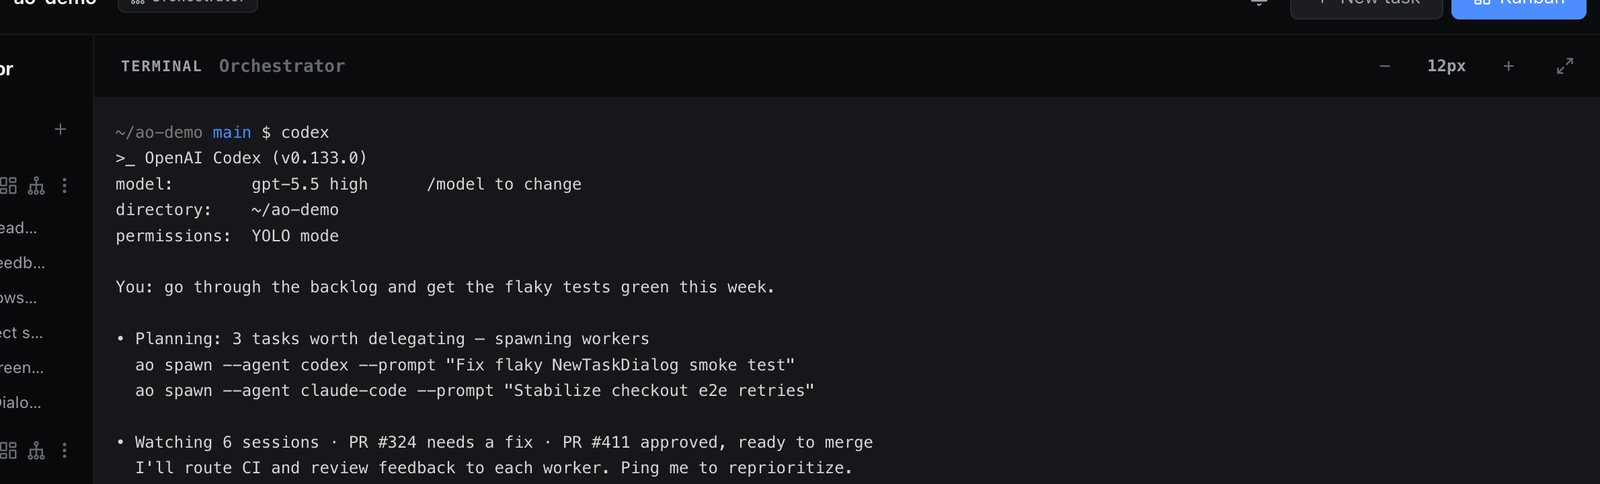
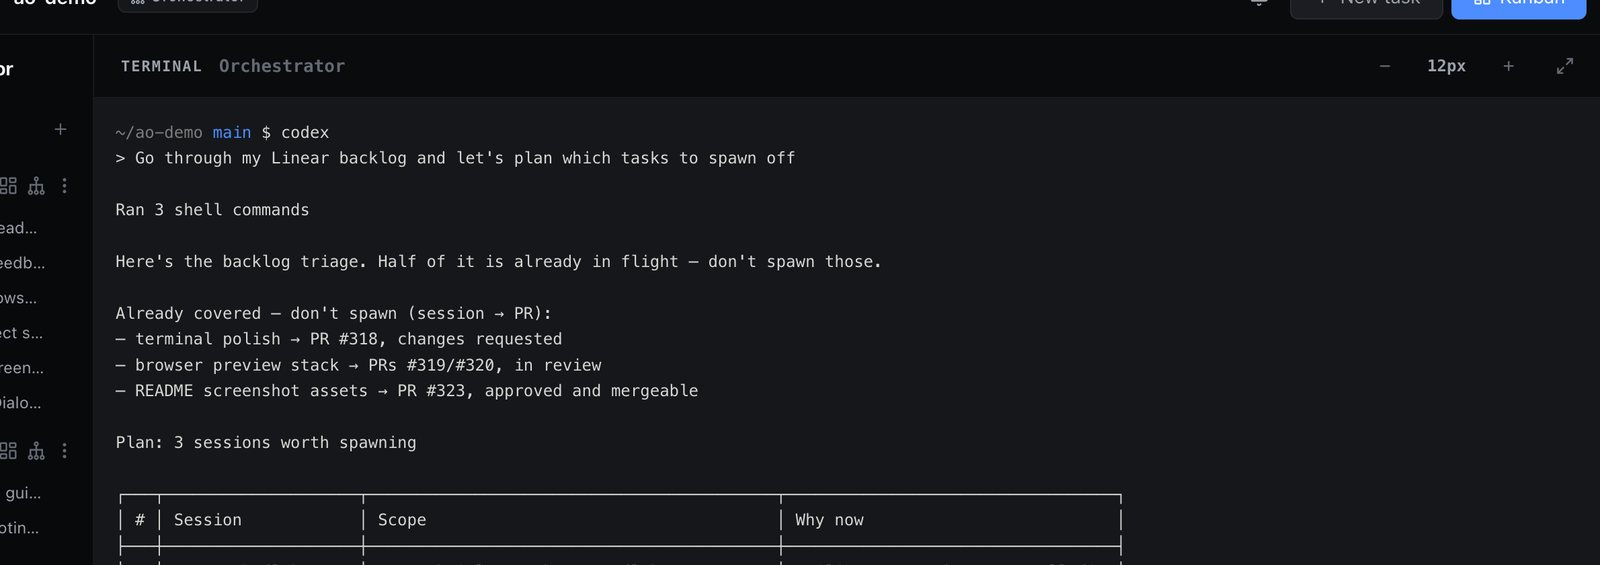
feat(landing): make demo terminals indistinguishable from real TUIs
Orchestrator transcript now follows the real Claude Code surface: user
bar, 'Ran N shell commands', triage bullets, a bordered plan table, the
'want me to spawn?' exchange, and spawn commands. Worker transcript gets
the bordered Codex header box, agent prose, Ran-blocks with real output
excerpts and the transcript ellipsis, with AO's CI nudge landing between
them in accent color.

diff --git a/frontend/src/renderer/components/TerminalPane.tsx b/frontend/src/renderer/components/TerminalPane.tsx
@@ -73,19 +73,36 @@ export function TerminalPane({ session, theme, daemonReady, terminalTarget, font
 function workerPreviewLines(session: WorkspaceSession | undefined, provider: string): string[] {
 	if (session?.id === "ao-demo-orchestrator") {
 		return [
-			">_ OpenAI Codex (v0.133.0)",
-			"model:        gpt-5.5 high      /model to change",
-			"directory:    ~/ao-demo",
-			"permissions:  YOLO mode",
+			"> Go through my Linear backlog and let's plan which tasks to spawn off",
 			"",
-			"You: go through the backlog and get the flaky tests green this week.",
+			"Ran 3 shell commands",
 			"",
-			"• Planning: 3 tasks worth delegating — spawning workers",
-			'  ao spawn --agent codex --prompt "Fix flaky NewTaskDialog smoke test"',
-			'  ao spawn --agent claude-code --prompt "Stabilize checkout e2e retries"',
+			"Here's the backlog triage. Half of it is already in flight — don't spawn those.",
 			"",
-			"• Watching 6 sessions · PR #324 needs a fix · PR #411 approved, ready to merge",
-			"  I'll route CI and review feedback to each worker. Ping me to reprioritize.",
+			"Already covered — don't spawn (session → PR):",
+			"— terminal polish → PR #318, changes requested",
+			"— browser preview stack → PRs #319/#320, in review",
+			"— README screenshot assets → PR #323, approved and mergeable",
+			"",
+			"Plan: 3 sessions worth spawning",
+			"",
+			"┌───┬────────────────────┬──────────────────────────────────────────┬──────────────────────────────────┐",
+			"│ # │ Session            │ Scope                                    │ Why now                          │",
+			"├───┼────────────────────┼──────────────────────────────────────────┼──────────────────────────────────┤",
+			"│ 1 │ new-task-flake     │ NewTaskDialog smoke test flakes on Enter │ Failing PR #324's e2e; small fix │",
+			"│ 2 │ checkout-retries   │ e2e retries leak state between runs      │ Flakes 1-in-5 on CI; well scoped │",
+			"│ 3 │ session-pr-surface │ PR checks missing on board cards         │ Additive; touches board only     │",
+			"└───┴────────────────────┴──────────────────────────────────────────┴──────────────────────────────────┘",
+			"",
+			"Want me to spawn all three? I'd put #1–2 on codex and #3 on claude-code.",
+			"",
+			"> yes, spawn all three",
+			"",
+			"Running 3 shell commands…",
+			'└ $ ao spawn --project ao-demo --name "new-task-flake" --agent codex --prompt',
+			'  "Fix the flaky NewTaskDialog smoke test: submit is debounced 300ms while the',
+			"  e2e check asserts synchronously. Reproduce, fix, and push to update PR #324.\"",
+			"PASS 3 sessions spawned — board updated",
 		];
 	}
 	if (session?.id === "demo-review-stack") {
@@ -121,22 +138,29 @@ function workerPreviewLines(session: WorkspaceSession | undefined, provider: str
 	}
 	if (session?.id === "demo-ci-failed") {
 		return [
-			">_ OpenAI Codex (v0.133.0)",
-			"model:        gpt-5.5 high      /model to change",
-			"directory:    ~/ao-demo/demo-new-task-flake",
-			"permissions:  YOLO mode",
+			"╭────────────────────────────────────────────╮",
+			"│ >_ OpenAI Codex (v0.133.0)                 │",
+			"│ model:        gpt-5.5 high  /model to change",
+			"│ directory:    ~/ao-demo/demo-new-task-flake",
+			"│ permissions:  YOLO mode                    │",
+			"╰────────────────────────────────────────────╯",
+			"",
+			"• I'll start from the failing check output, reproduce the Enter-submit",
+			"  path locally, then patch and push.",
 			"",
 			"• Ran npm test -- NewTaskDialog",
-			"  PASS 12 tests passed",
+			"└ PASS 12 tests passed",
 			"",
 			"▲ ao send · CI failed on PR #324. The failing checks are e2e (NewTaskDialog",
 			"  submits with Enter). Investigate and push a fix.",
 			"",
 			'• Ran rg -n "onKeyDown|Enter" src/components/NewTaskDialog.tsx',
+			'└ src/components/NewTaskDialog.tsx:88:  onKeyDown={(e) => e.key === "Enter" && scheduleSubmit()}',
+			"  src/components/NewTaskDialog.tsx:141: const scheduleSubmit = debounce(submit, 300)",
 			"  … +42 lines (ctrl + t to view transcript)",
 			"",
 			"Found it: submit is debounced 300ms, the check asserts immediately.",
-			"Patching NewTaskDialog and re-running the e2e suite…",
+			"Patching the handler and re-running e2e…",
 		];
 	}
 	return [

diff --git a/frontend/src/landing/components/LandingFeaturesShowcase.tsx b/frontend/src/landing/components/LandingFeaturesShowcase.tsx
@@ -18,9 +18,9 @@ const features: Feature[] = [
 		body: "Every project gets a main agent that runs the fleet for you. Describe the outcome — it plans the work, spawns workers into their own worktrees, keeps them moving, and escalates only what needs a human.",
 		facts: ["plans + spawns workers", "keeps sessions moving", "you stay the reviewer"],
 		src: "/features/orchestrator.jpg",
-		alt: "A real orchestrator session in AO: the user asks it to get the flaky tests green, and the orchestrator plans the work, spawns workers, and reports what it is watching.",
+		alt: "A real orchestrator session in AO: the user asks it to plan tasks from the backlog, and the orchestrator answers with a triage, a plan table, and spawns the workers.",
 		width: 1600,
-		height: 484,
+		height: 565,
 	},
 	{
 		eyebrow: "Watch",
@@ -40,7 +40,7 @@ const features: Feature[] = [
 		src: "/features/session-feedback.jpg",
 		alt: "A session inspector in AO: a real Codex terminal that just received AO's message about CI failing on its pull request, next to the pull request card and activity timeline.",
 		width: 1600,
-		height: 743,
+		height: 811,
 	},
 ];
 